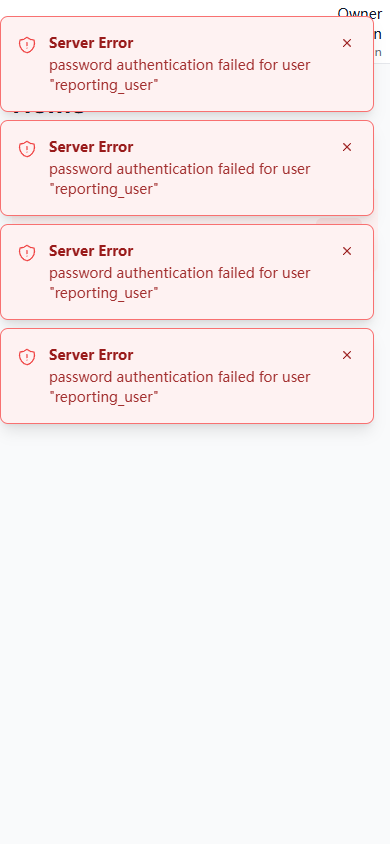
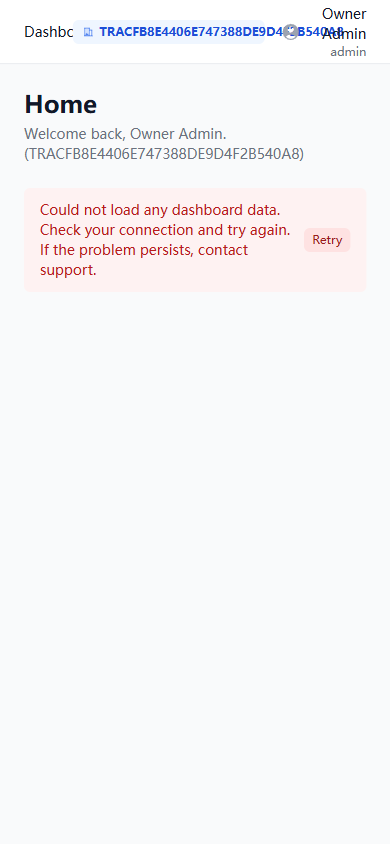
R4-C0-R2 scope correction: regenerate after-screenshots (no overflow-x:hidden, scrollWidth===clientWidth===390), add R4-C1 mobile navigation contract, test contract, fix product scope to 4 files, fix risk to MEDIUM, rebuild SHA-256 manifest

Changed region(s): [[0.0, 0.0, 0.9846, 0.5237], [0.7385, 0.4313, 0.8, 0.4621], [0.7385, 0.3081, 0.8, 0.3389]]

diff --git a/reports/dc12r1-mvp-l1-pw1-r4-c0-r1-mobile-overflow-diagnostic-2026-08-17/REPORT.md b/reports/dc12r1-mvp-l1-pw1-r4-c0-r1-mobile-overflow-diagnostic-2026-08-17/REPORT.md
@@ -1,10 +1,10 @@
-# DC-12R1-MVP-L1-PW1-R4-C0-R1 — Mobile Horizontal Overflow Root-Cause Diagnostic
+# DC-12R1-MVP-L1-PW1-R4-C0-R2 — Mobile Horizontal Overflow Root-Cause Diagnostic (Scope Corrected)
 
-**Task:** PW1R4C0-R1 Phase 6 Responsive Overflow Diagnosis (Refined)
+**Task:** PW1R4C0-R2 Phase 6 Responsive Overflow Diagnosis — R4-C0-R2 Scope Correction
 **Date:** 2026-08-17
 **Product baseline:** `origin/product-dev-recovered` @ `9067e38f83edb38fcdb53fb5d5eea7e75e85cf5f`
 **Report branch:** `reports/dc12r1-mvp-l1-pw1-r4-c0-r1-mobile-overflow-diagnostic-2026-08-17`
-**Scope:** Diagnosis only. No code changes, no `overflow-x: hidden`, no assertion weakening, no clipping or hiding of required controls.
+**Scope:** Evidence/scope correction only — no product code changes. No `overflow-x: hidden` in fix or evidence. No assertion weakening, no clipping or hiding of required controls.
 
 ---
 
@@ -71,7 +71,7 @@ In CSS Flexbox, `min-width: auto` is the default. It means a flex item cannot sh
 | CF8 | CF7 + `header { padding: 8px }` | 0 | 0px | 100% |
 | CF9 | CF8 + `main { padding: 12px }` | 0 | 0px | 100% |
 | CF10 | CF9 + badge ellipsis | 0 | 0px | 100% |
-| CF11 | CF10 + content overflow hidden (safety) | 0 | 0px | 100% |
+| CF11 | CF10 + content/header `min-width: 0` final (no overflow hidden) | 0 | 0px | 100% |
 
 ### 3.2 Orders (baseline: 346px)
 
@@ -108,32 +108,53 @@ CF8-CF10 (header padding, main padding, badge ellipsis) contributed **0px** redu
 
 ## 5. R4-C1 Fix Scope Recommendation
 
-### Minimum Viable Responsive Fix
+### R4-C1 Mobile Navigation Contract (Pre-Implementation Spec)
+
+| Requirement | Detail |
+|-------------|--------|
+| **Drawer pattern** | Sidebar hidden on mobile, toggleable via hamburger button in Header |
+| **State owner** | `MainLayout.tsx` holds `sidebarOpen` boolean state |
+| **Header hamburger** | `Header.tsx` renders hamburger `<button>` on `<lg` breakpoint, passes `onClick` toggle callback |
+| **Sidebar as drawer** | On `<lg`: sidebar uses `translate-x` slide-in with backdrop overlay. On `lg+`: sidebar fixed visible as today |
+| **Close triggers** | Hamburger toggle, backdrop click, Escape key |
+| **Nav-after-close** | After drawer close, focus returns to hamburger button (a11y) |
+| **No hidden-without-alternative** | At no breakpoint is sidebar hidden without a hamburger/drawer replacement |
+
+### Minimum Viable Responsive Fix (CSS-only, 4 files)
 
 | File | Change | Tailwind Equivalent |
 |------|--------|-------------------|
-| `MainLayout.tsx:13` | `ml-64` to `lg:ml-64`, add `min-w-0` on content wrapper | Responsive margin + flex shrink |
-| `MainLayout.tsx:11` | Add `overflow-x-hidden` to root (safety net only) | Prevent runaway overflow |
-| `Sidebar.tsx:57` | Add `hidden lg:flex` on `<aside>` | Hide on mobile, show on desktop |
-| `Header.tsx:32` | Change `shrink-0` to `lg:shrink-0`, add `min-w-0` to header flex children | Allow mobile shrink |
+| `MainLayout.tsx:13` | `ml-64` to `lg:ml-64`, add `min-w-0` on content wrapper, add `sidebarOpen` state + drawer wrapper | Responsive margin + flex shrink |
+| `Sidebar.tsx:57` | Add `hidden lg:flex` on `<aside>`, accept `isOpen`/`onClose` props for mobile drawer mode | Hide on mobile, drawer on toggle |
+| `Header.tsx:32` | Change `shrink-0` to `lg:shrink-0`, add `min-w-0` to header flex children, add hamburger button on `<lg` | Allow mobile shrink + nav trigger |
 | `Header.tsx:56-58` | Badge gets `truncate` or `overflow-hidden text-ellipsis` on `<sm` | Truncate long tenant codes |
 | `Header.tsx:32` | `px-6` to `px-4 lg:px-6` | Reduce mobile padding |
+
+### Test Contract (R4-C1 Verification Criteria)
+
+| # | Test | Expected |
+|---|------|----------|
+| T1 | Hamburger button visible and accessible at 390px viewport | `aria-label`, `role="button"`, in tab order |
+| T2 | Drawer default-closed on mobile page load | Sidebar not in DOM accessibility tree or `aria-hidden="true"` |
+| T3 | Drawer openable via hamburger click | Sidebar slides in, backdrop visible |
+| T4 | Drawer closeable via hamburger, backdrop click, Escape | Sidebar slides out, backdrop removed |
+| T5 | Desktop sidebar visible at 1024px+ | Sidebar visible, hamburger hidden |
+| T6 | Mobile content has no fixed `ml-64` at 390px | `scrollWidth === clientWidth === 390` |
+| T7 | Long tenant code (32 chars) + long user name no page-level overflow | `scrollWidth === clientWidth === 390` |
+| T8 | Existing Sidebar nav link behavior unchanged on desktop | All 8 nav links functional, active state correct |
+| T9 | Existing Header breadcrumb + tenant badge + user block unchanged on desktop | All visible, same layout at 1024px+ |
 
 ### Regression Test Files Required
 
 | File | Purpose |
 |------|---------|
 | `pw1r4b/tests/phase6-responsive.spec.ts` | Existing mobile overflow regression (lines 17, 25) |
-| New: `phase6-responsive.spec.ts` additions | Test sidebar hidden on mobile, visible on lg breakpoint |
-| New: `phase6-responsive.spec.ts` additions | Test header truncation of long tenant codes on mobile |
-| New: `phase6-responsive.spec.ts` additions | Test all admin routes under 390px viewport (smoke test) |
+| New: `Pw1R4C1MainLayoutResponsive.test.tsx` | T1-T9 contract tests (hamburger, drawer, responsive sidebar, overflow) |
 
 ### Estimated Change Count
 
-- **3 product component files** modified
-- **1 test file** extended (3+ new test cases)
-- **0 new dependencies**
-- **Risk: LOW** — Tailwind responsive classes are additive; desktop (lg: 1024px+) behavior unchanged
+- **4 files** (3 modified + 1 new test file)
+- **Risk: MEDIUM** — 29 wholesaler/platform routes affected; desktop (lg: 1024px+) behavior unchanged; drawer pattern is standard UX
 
 ---
 
@@ -144,9 +165,9 @@ CF8-CF10 (header padding, main padding, badge ellipsis) contributed **0px** redu
 | `evidence/dom_measurements.json` | Full DOM width + ancestor chain JSON for both pages, all 11 CFs |
 | `evidence/findings.csv` | Machine-readable CF results (page, CF, delta, reduction %) |
 | `evidence/dashboard_before.png` | Before fix screenshot (390x844, device pixel ratio) |
-| `evidence/dashboard_after.png` | After fix screenshot (CF11 applied) |
+| `evidence/dashboard_after.png` | After fix screenshot (CF11: min-width:0 only, no overflow hidden) |
 | `evidence/orders_before.png` | Before fix screenshot |
-| `evidence/orders_after.png` | After fix screenshot |
+| `evidence/orders_after.png` | After fix screenshot (same fix, no overflow hidden) |
 | `evidence/sha256_manifest.txt` | SHA256 of all evidence files via git blob |
 
 ---
